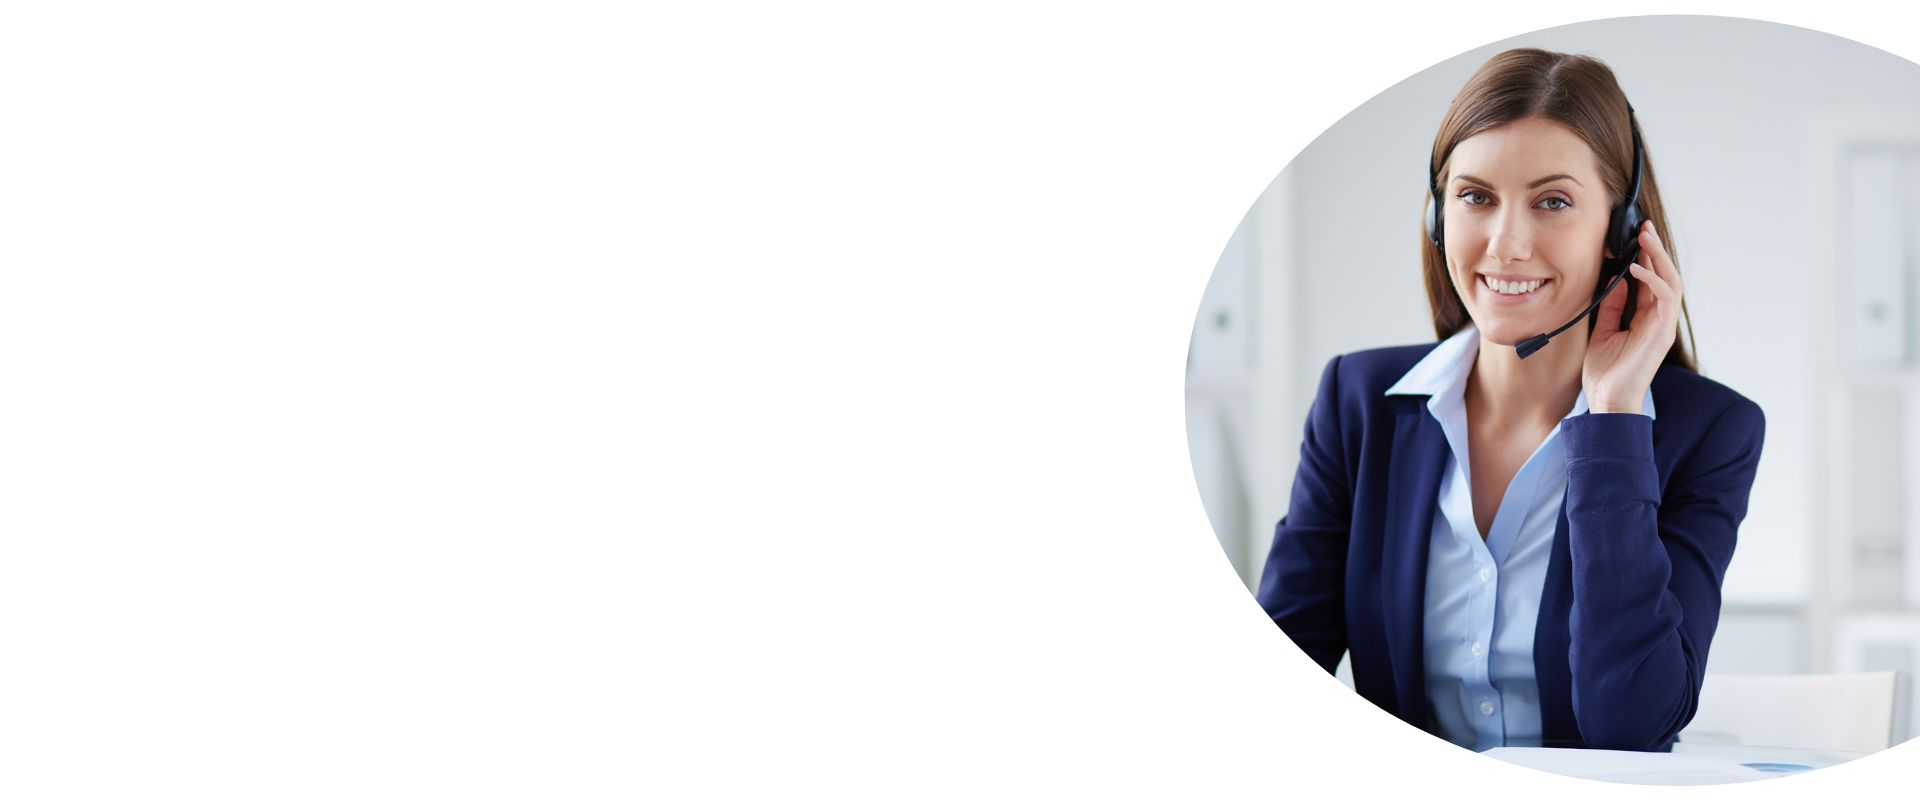
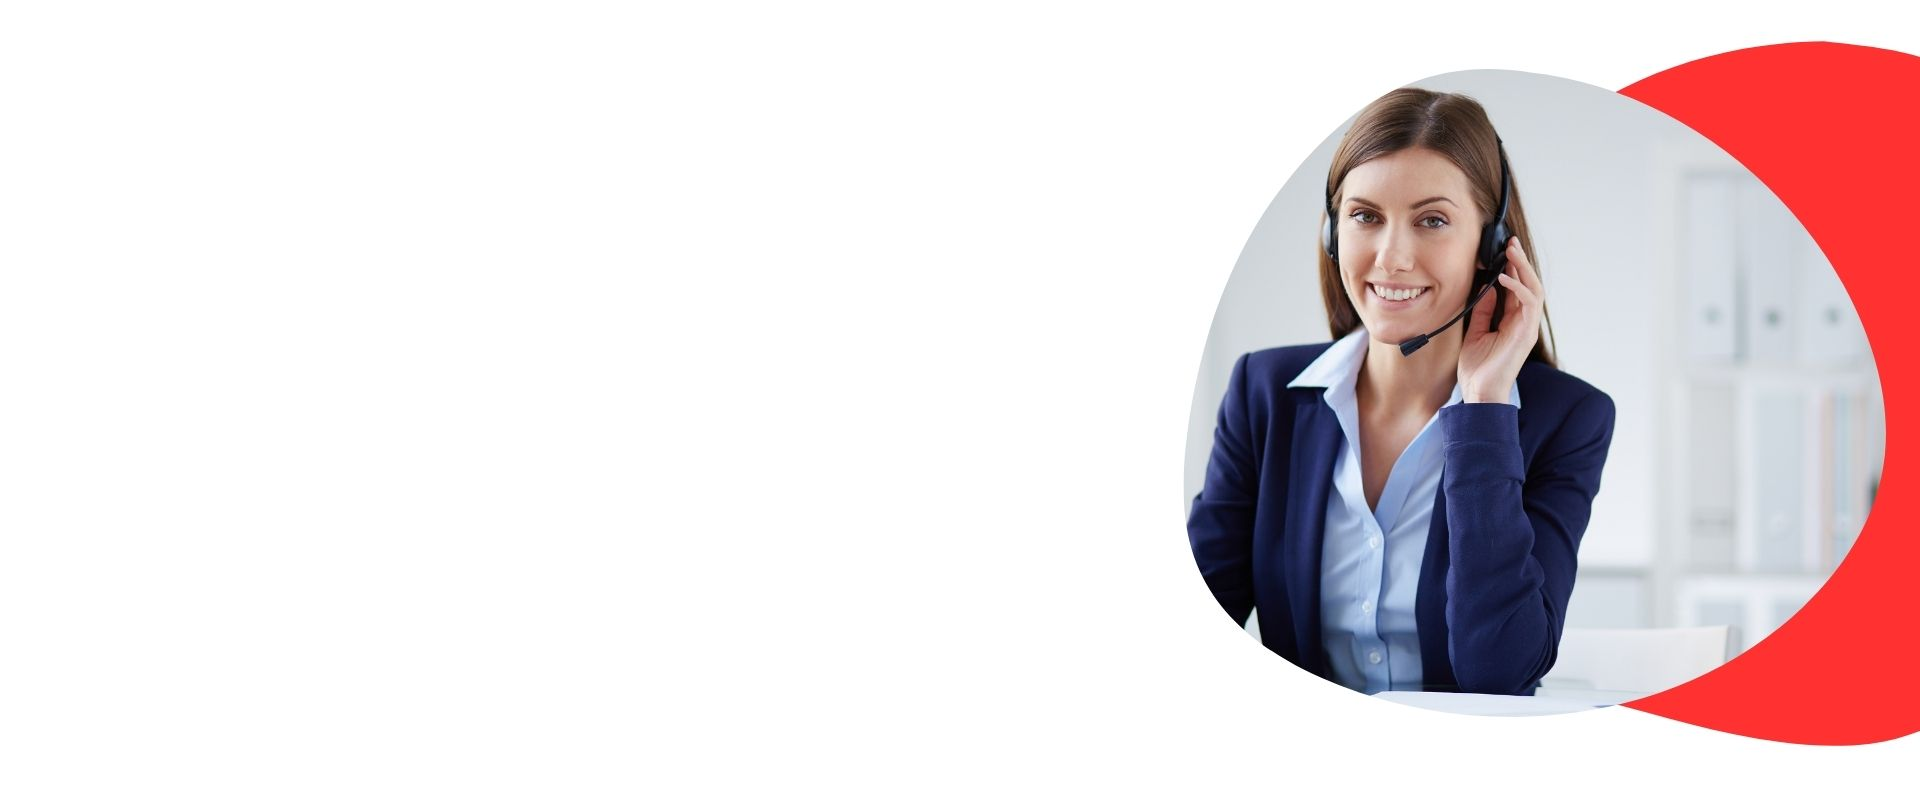
feat: add ProposalSection component to showcase the purpose of the brand

Changed region(s): [[0.5938, 0.0, 1.0, 1.0]]

diff --git a/src/app/(main)/_components/contact-us.tsx b/src/app/(main)/_components/contact-us.tsx
@@ -14,11 +14,11 @@ import Link from "next/link";
 
 const ContactUs = () => {
   return (
-    <section className="w-full overflow-hidden relative py-20">
+    <section className="w-full overflow-hidden relative ">
       <Image src={ContatoBg} alt="Matupi" className="lg:flex hidden" />
       <Image src={ContatoBgMobile} alt="Matupi" className="lg:hidden flex" />
 
-      <div className="w-full absolute z-10 top-32 ">
+      <div className="w-full absolute z-10 top-5 ">
         <Container>
           <div className="flex lg:flex-row flex-col w-full h-[700px] lg:justify-start lg:items-center justify-end">
             <div className="flex flex-col gap-5 max-w-[500px]">
@@ -50,7 +50,7 @@ const ContactUs = () => {
         </Container>
       </div>
 
-      <svg
+      {/* <svg
         xmlns="http://www.w3.org/2000/svg"
         viewBox="0 0 480 480"
         className="absolute lg:w-[400px] hidden -right-32 -top-52 rotate-x-12 z-20"
@@ -59,9 +59,9 @@ const ContactUs = () => {
           d="M360 289.7c43.4 0 86.9-16.6 120-49.7a169.2 169.2 0 0 0-120-49.7 169.2 169.2 0 0 0 49.7-120c-46.9 0-89.3 19-120 49.7 0-43.4-16.6-86.9-49.7-120a169.2 169.2 0 0 0-49.7 120 169.2 169.2 0 0 0-120-49.7c0 46.8 19 89.3 49.7 120-43.4 0-86.9 16.6-120 49.7a169.2 169.2 0 0 0 120 49.7 169.2 169.2 0 0 0-49.7 120c46.8 0 89.3-19 120-49.7 0 43.4 16.6 86.9 49.7 120a169.2 169.2 0 0 0 49.7-120 169.2 169.2 0 0 0 120 49.7c0-46.9-19-89.3-49.7-120Z"
           fill="#F30808 "
         ></path>
-      </svg>
+      </svg> */}
 
-      <svg
+      {/* <svg
         xmlns="http://www.w3.org/2000/svg"
         viewBox="0 0 480 480"
         className="absolute lg:w-[400px] w-[00px] -right-32 top-[10em] rotate-x-12"
@@ -70,7 +70,7 @@ const ContactUs = () => {
           d="M360 289.7c43.4 0 86.9-16.6 120-49.7a169.2 169.2 0 0 0-120-49.7 169.2 169.2 0 0 0 49.7-120c-46.9 0-89.3 19-120 49.7 0-43.4-16.6-86.9-49.7-120a169.2 169.2 0 0 0-49.7 120 169.2 169.2 0 0 0-120-49.7c0 46.8 19 89.3 49.7 120-43.4 0-86.9 16.6-120 49.7a169.2 169.2 0 0 0 120 49.7 169.2 169.2 0 0 0-49.7 120c46.8 0 89.3-19 120-49.7 0 43.4 16.6 86.9 49.7 120a169.2 169.2 0 0 0 49.7-120 169.2 169.2 0 0 0 120 49.7c0-46.9-19-89.3-49.7-120Z"
           fill="#F30808 "
         ></path>
-      </svg>
+      </svg> */}
     </section>
   );
 };

diff --git a/src/app/sobre-nos/_components/proposal.tsx b/src/app/sobre-nos/_components/proposal.tsx
@@ -1,0 +1,48 @@
+import Image from "next/image";
+import React from "react";
+import {
+  BannerProposito,
+  ConteudosBg,
+  WaveRed,
+  WaveRedUpsideDown,
+  WaveWhite,
+} from "../../../../public/assets";
+import Container from "@/components/container";
+import { Button } from "@/components/ui/button";
+import { ArrowRight } from "lucide-react";
+
+const ProposalSection = () => {
+  return (
+    <section className="w-full overflow-hidden relative mb-10">
+      <Image
+        src={WaveWhite}
+        className="w-full absolute -top-2 left-0 rotate-180"
+        alt="matupi"
+        loading="lazy"
+      />
+      <Image
+        src={WaveWhite}
+        className="w-full absolute -bottom-10 left-0"
+        alt="matupi"
+        loading="lazy"
+      />
+      <Image src={BannerProposito} alt="Matupi" className="" />
+
+      <div className="w-full absolute z-10 top-32 ">
+        <Container>
+          <div className="w-full h-[500px] flex flex-col justify-center items-center gap-5 ">
+            <span className="text-white text-md font-semibold uppercase  font-(family-name:--font-sora) bg-[#f30808] p-3 rounded-full px-8">
+              Propósito
+            </span>
+
+            <h1 className="text-[5em] leading-tight text-white text-center  font-(family-name:--font-sora)">
+              Levar o sabor da Amazônia para a sua mesa com qualidade
+            </h1>
+          </div>
+        </Container>
+      </div>
+    </section>
+  );
+};
+
+export default ProposalSection;

diff --git a/src/components/ui/button.tsx b/src/components/ui/button.tsx
@@ -5,7 +5,7 @@ import { cva, type VariantProps } from "class-variance-authority";
 import { cn } from "@/lib/utils";
 
 const buttonVariants = cva(
-  "inline-flex items-center justify-center gap-2 whitespace-nowrap cursor-pointer rounded-md text-sm font-medium transition-all disabled:pointer-events-none disabled:opacity-50 [&_svg]:pointer-events-none [&_svg:not([class*='size-'])]:size-4 shrink-0 [&_svg]:shrink-0 outline-none focus-visible:border-ring focus-visible:ring-ring/50 focus-visible:ring-[3px] aria-invalid:ring-destructive/20 dark:aria-invalid:ring-destructive/40 aria-invalid:border-destructive",
+  "inline-flex items-center justify-center gap-2 whitespace-nowrap cursor-pointer rounded-md lg:text-sm text-[0.7em] font-medium transition-all disabled:pointer-events-none disabled:opacity-50 [&_svg]:pointer-events-none [&_svg:not([class*='size-'])]:size-4 shrink-0 [&_svg]:shrink-0 outline-none focus-visible:border-ring focus-visible:ring-ring/50 focus-visible:ring-[3px] aria-invalid:ring-destructive/20 dark:aria-invalid:ring-destructive/40 aria-invalid:border-destructive",
   {
     variants: {
       variant: {

diff --git a/src/app/receitas/_components/filtered-recipes.tsx b/src/app/receitas/_components/filtered-recipes.tsx
@@ -18,10 +18,10 @@ const FilteredRecipes = () => {
   const [category, setCategory] = React.useState("salgadas");
 
   return (
-    <section className="w-full py-20 overflow-hidden relative">
+    <section className="w-full py-20  relative">
       <Image
         src={WaveWhite}
-        className="absolute -top-10 w-full "
+        className="absolute lg:-top-10 -top-3 w-full "
         alt="Receitas"
         quality={100}
         loading="lazy"
@@ -43,7 +43,7 @@ const FilteredRecipes = () => {
             ))}
           </div> */}
 
-          <div className="flex space-x-2 mb-4">
+          <div className="flex w-full justify-center items-center space-x-2 mb-4">
             <Button
               variant={category === "salgadas" ? "default" : "outline"}
               onClick={() => setCategory("salgadas")}

diff --git a/public/assets/index.ts b/public/assets/index.ts
@@ -19,6 +19,7 @@ import EasyIcon from "./svg/easy.svg";
 import MediumIcon from "./svg/medium.svg";
 import HardIcon from "./svg/hard.svg";
 import ConteudosBg from "./backgrounds/banner_conteudos.jpg";
+import BannerProposito from "./backgrounds/banner_proposito.jpg";
 import ContatoBg from "./backgrounds/banner_contactus.jpg";
 import HistoriaBg from "./backgrounds/banner_historia.webp";
 import HistoriaBgMobile from "./backgrounds/banner_historia_mobile.png";
@@ -50,4 +51,5 @@ export {
   ContatoBg,
   HistoriaBgMobile,
   ContatoBgMobile,
+  BannerProposito,
 };

diff --git a/src/app/sobre-nos/page.tsx b/src/app/sobre-nos/page.tsx
@@ -1,6 +1,7 @@
 import HeroAboutUs from "./_components/hero-about-us";
 import Mission from "./_components/mission";
 import OurHistory from "./_components/our-history";
+import ProposalSection from "./_components/proposal";
 
 export default function AboutUs() {
   return (
@@ -8,6 +9,7 @@ export default function AboutUs() {
       <HeroAboutUs />
       <OurHistory />
       <Mission />
+      <ProposalSection />
     </>
   );
 }

diff --git a/src/app/receitas/_components/get-filtered-recipes.tsx b/src/app/receitas/_components/get-filtered-recipes.tsx
@@ -60,7 +60,7 @@ export default function GetFilteredRecipes({ category }: { category: string }) {
   ));
 
   return (
-    <div className="p-4">
+    <div className="">
       <Carousel items={cards} />
     </div>
   );
